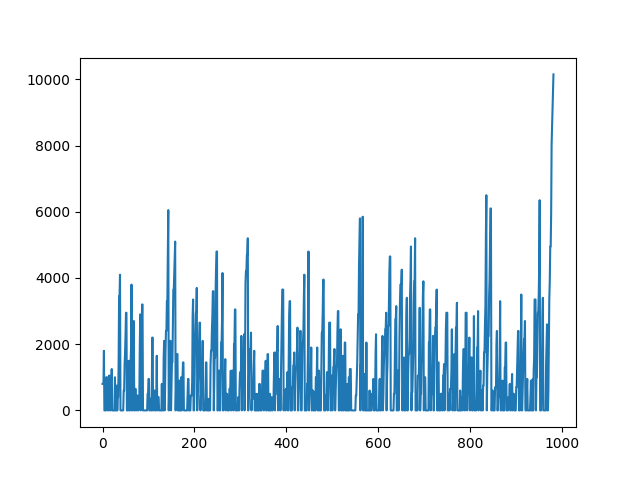
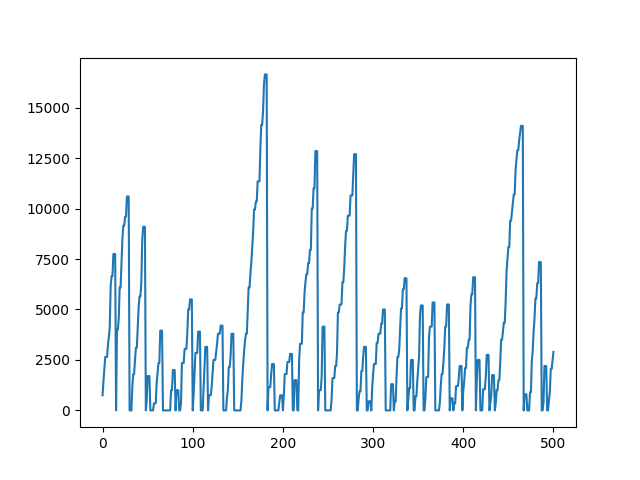
Generated Grafs

diff --git a/agent.py b/agent.py
@@ -157,9 +157,11 @@ class Agent_5(Agent):
         # print(next_turn, list_back, list_dices)
         return [next_turn, list_back]
 
+
+
 def plot_graphs():
-    p = [agent_2, agent_3, agent_5]
-    names = ['agent_2', 'agent_3', 'agent_5']
+    p = [agent_0,agent_1,agent_2, agent_3,  agent_4, agent_5]
+    names = ['agent_0','agent_1','agent_2', 'agent_3', 'agent_4', 'agent_5']
 
     list_of_scores = [env.play_one_game(p[x], 10000) for x in range(len(p))]
 
@@ -186,4 +188,4 @@ agent_4 = Agent_4()
 agent_5 = Agent_5()
 
 
-avg_turn()
+plot_graphs()

diff --git a/plot_histogram.py b/plot_histogram.py
@@ -22,6 +22,6 @@ histogram_list = [
         450: 0.01048, 500: 0.03219, 550: 0.00295, 600: 0.02438, 650: 0.00855, 700: 0.01105, 750: 0.00258, 800: 0.00333, 850: 0.00055, 900: 0.00073, 1000: 0.02343, 1050: 0.00951, 1100: 0.00212, 1200: 0.00178, 1250: 0.00055, 1300: 0.00054, 1600: 0.00011, 2000: 0.00276, 2050: 0.00071, 2400: 0.00011, 4000: 9e-05}
     ]
 
-histogram = histogram_list[0]
+histogram = histogram_list[4]
 
 plot_histogram_from_dict(histogram)

diff --git a/environment.py b/environment.py
@@ -145,7 +145,8 @@ class Environment:
         dif = 0
         list_score = []
 
-        while game.global_score <= target_score:
+        #while game.global_score <= target_score:
+        while turns <= 500:
             dif = self.play_one_turn(agent, game.global_score, 0)
             game.global_score += dif
 
@@ -162,5 +163,5 @@ class Environment:
 
             
             turns += 1
-            
+    
         return list_score
